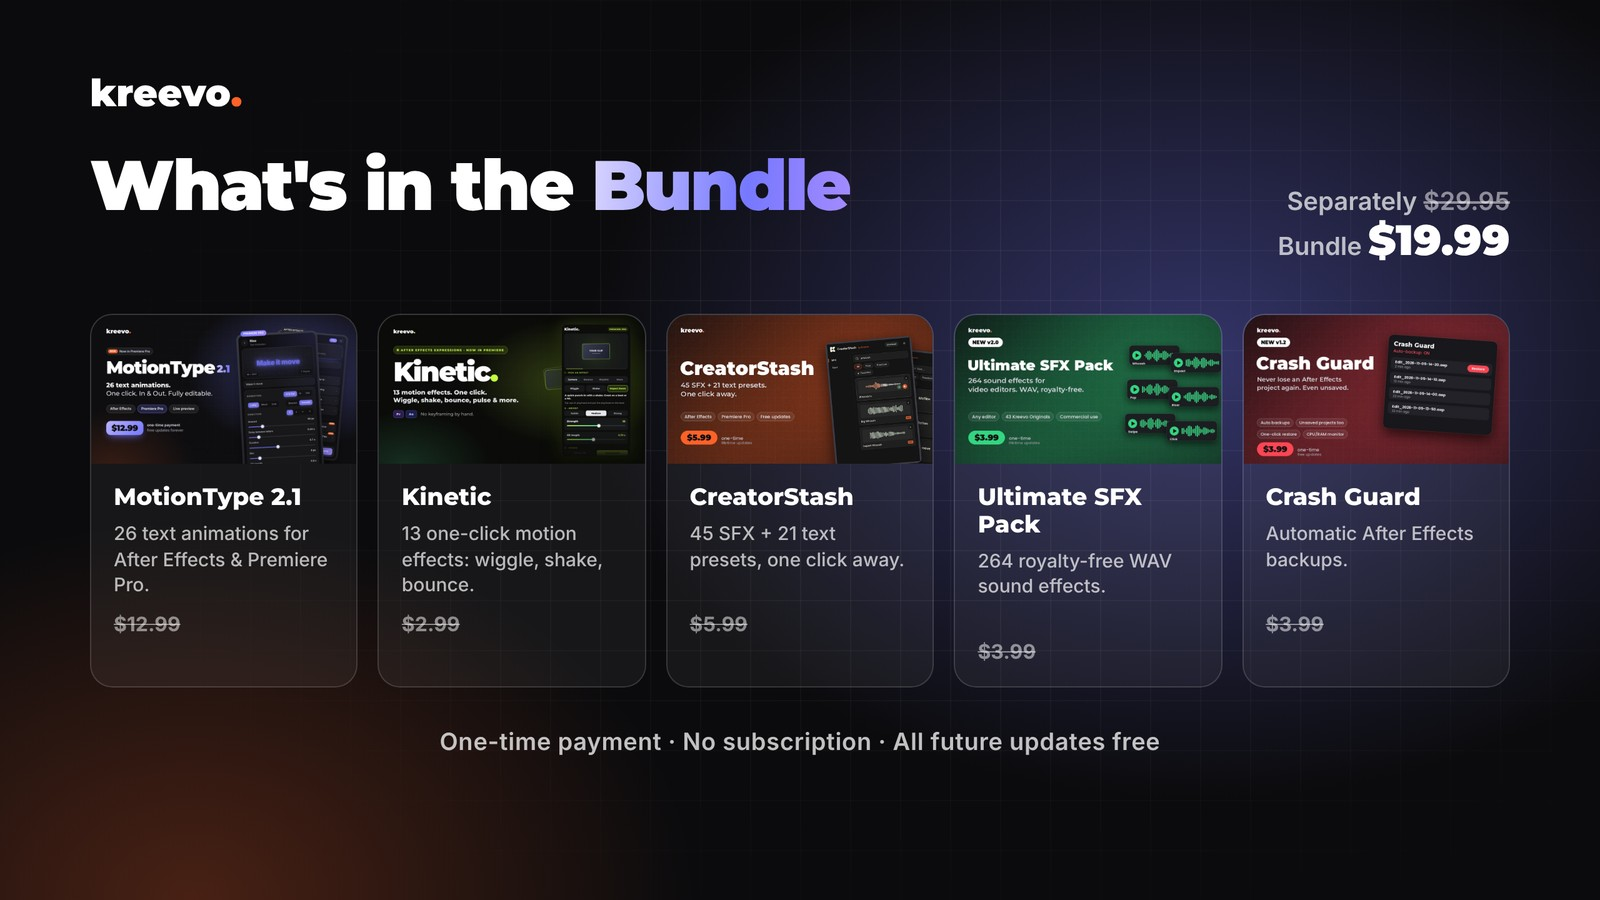
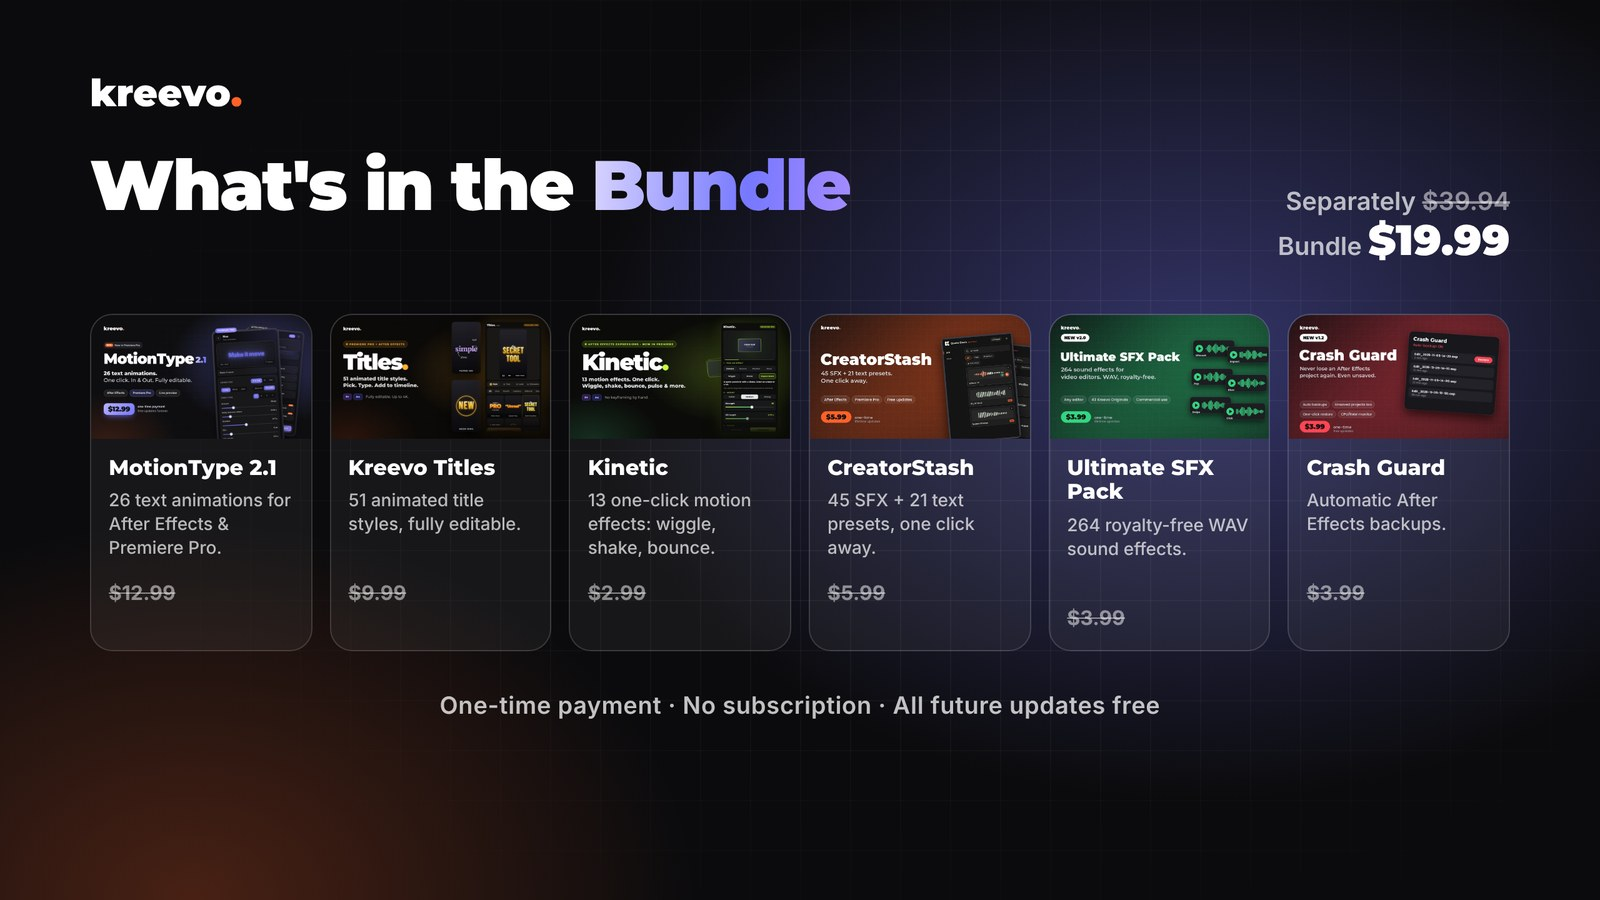
Kreevo Titles on the site; Bundle now 6 tools ($39.94 separately)
Claude-Session: https://claude.ai/code/session_018vXW8Gu7cQWRMTuFdYX9GL

diff --git a/index.html b/index.html
@@ -710,7 +710,7 @@
       <div class="stat-label">sound effects</div>
     </div>
     <div class="stat">
-      <div class="stat-num">5</div>
+      <div class="stat-num">6</div>
       <div class="stat-label">tools</div>
     </div>
     <div class="stat">
@@ -767,11 +767,11 @@
           <img src="assets/brand/bundle_cover.jpg" alt="Kreevo Bundle" loading="lazy">
         </div>
         <div class="product-info">
-          <div class="product-cat">All 5 tools</div>
+          <div class="product-cat">All 6 tools</div>
           <div class="product-name">Kreevo Bundle</div>
-          <div class="product-desc">MotionType 2.1, Kinetic, CreatorStash Premium, Ultimate SFX Pack and Crash Guard. One download, all future updates free.</div>
+          <div class="product-desc">MotionType 2.1, Kreevo Titles, Kinetic, CreatorStash Premium, Ultimate SFX Pack and Crash Guard. One download, all future updates free.</div>
           <div class="product-footer">
-            <div class="product-price">$19.99 <span><s>$29.95</s> one-time</span></div>
+            <div class="product-price">$19.99 <span><s>$39.94</s> one-time</span></div>
             <a class="btn-buy" href="https://kreevo.gumroad.com/l/bundle" target="_blank" rel="noopener" onclick="event.stopPropagation()">Get it →</a>
           </div>
         </div>
@@ -791,10 +791,24 @@
           </div>
         </div>
       </div>
+      <div class="product-card" data-cat="ae" onclick="window.open('https://kreevo.gumroad.com/l/titles', '_blank', 'noopener')">
+        <div class="product-img has-cover">
+          <img src="assets/titles/demo.gif" alt="Kreevo Titles demo: glow, hand-drawn and caption title styles" loading="lazy">
+          <div class="product-badge-new">NEW</div>
+        </div>
+        <div class="product-info">
+          <div class="product-cat">AE + Premiere Extension</div>
+          <div class="product-name">Kreevo Titles</div>
+          <div class="product-desc">51 animated title styles: glow, kinetic, captions, editorial, hand-drawn. Change every font, colour and element, then add it to your timeline in one click.</div>
+          <div class="product-footer">
+            <div class="product-price">$9.99 <span>one-time</span></div>
+            <a class="btn-buy" href="https://kreevo.gumroad.com/l/titles" target="_blank" rel="noopener" onclick="event.stopPropagation()">Get it →</a>
+          </div>
+        </div>
+      </div>
       <div class="product-card" data-cat="ae" onclick="window.open('https://kreevo.gumroad.com/l/kinetic', '_blank', 'noopener')">
         <div class="product-img has-cover">
           <img src="assets/kinetic/demo.gif" alt="Kinetic demo: wiggle, impact zoom, pop-in, squash, pulse, swing, float" loading="lazy">
-          <div class="product-badge-new">NEW</div>
         </div>
         <div class="product-info">
           <div class="product-cat">AE + Premiere Extension</div>
